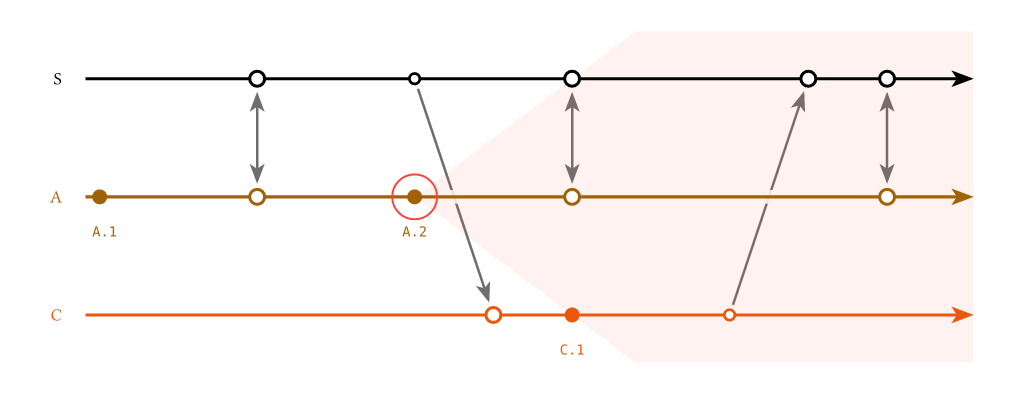
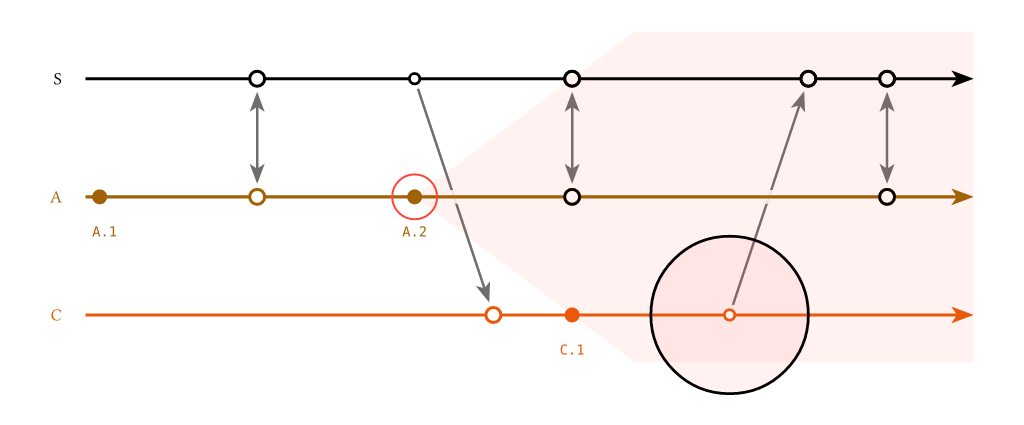
Document what a drawing can ask a diagram about itself
`color-of` hands back the colour a replica's timeline is drawn in, and `mark-args` everything it
takes to draw one of its marks -- coordinate, radius, fill and stroke -- ready to spread into
`circle` and override a piece of.  Between them they answer the thing a drawing kept having to guess:
how to restate a mark without restating the library's choices about how a mark looks.

The diagram draws its own marks from the same value `mark-args` returns, so a drawing that spreads it
follows along if any of those choices change.  That is worth saying on the page, because it is the
reason to prefer it over reaching for `dot` and a stroke width.

Also records that the nudge on a lane's opening label is the orientation's own now: a horizontal lane
takes it, because its replica name sits immediately beside that first label, and a vertical lane does
not, because its name sits before the lane in time while its labels sit beside it.

Changed region(s): [[0.0312, 0.1523, 0.9688, 0.9442], [0.0938, 0.5482, 0.125, 0.6091], [0.6562, 0.8832, 0.6875, 0.9137]]

diff --git a/changelog.md b/changelog.md
@@ -17,7 +17,7 @@ The vertical release: a diagram is no longer bound to run left to right.
 - `orientation` on `lamport-diagram`, which says which way logical time runs: `rightwards`, `leftwards`, `downwards` or `upwards`, with `horizontal` and `vertical` as shorter names for the first and third.  The horizontal pair lays the timelines out as rows and stacks the replicas downwards; the vertical pair lays them out as columns and stacks the replicas rightwards.  These are plain strings, so `orientation: "vertical"` works without importing anything.
 - `left` and `right`, re-exported alongside `above` and `below`, so one import line covers every side a diagram may ask for.  They are the built-in alignments of those names, so either spelling works.  A vertical diagram puts a label on the `right` by default; a horizontal one keeps 0.1.0's `above`.
 - `gallery/vertical.typ`, the gorgeous example drawn downwards.
-- `overlays` on `lamport-diagram`, for drawing your own CeTZ into a diagram at a layer of your choosing, addressing the diagram's own points by name.  A diagram is drawn in passes, `layers` names them, and a drawing given for one is appended to that pass — which is what puts a band above the translucent bands that fade a crossing arrow, and so out of their stripe.  It comes with `event(id: ..)` for naming an event, and a re-export of CeTZ's `draw` module so a caller needs no second dependency to reach `rect` and `circle`.
+- `overlays` on `lamport-diagram`, for drawing your own CeTZ into a diagram at a layer of your choosing, addressing the diagram's own points by name.  A diagram is drawn in passes, `layers` names them, and a drawing given for one is appended to that pass — which is what puts a band above the translucent bands that fade a crossing arrow, and so out of their stripe.  It comes with `event(id: ..)` for naming an event, `color-of(replica)` so a drawing can match a lane rather than restate its colour, `mark-args(replica, id-or-index)` for restating a mark with the radius, fill and stroke the diagram gave it, and a re-export of CeTZ's `draw` module so a caller needs no second dependency to reach `rect` and `circle`.
 - `gallery/overlays.typ`, the future cone of one event washed in behind the lanes, and a ring round the event itself.
 
 ### Changed
@@ -25,6 +25,7 @@ The vertical release: a diagram is no longer bound to run left to right.
 - Which sides a label may sit on now follows from the orientation: `above`/`below` for the horizontal pair, `left`/`right` for the vertical one.  A side the orientation has no room for is *not* an error — it is dropped back to that orientation's default and otherwise ignored, so flipping a finished diagram from horizontal to vertical stays one edit rather than a compile error on every lane that named a side.  It passes in silence for want of anywhere to complain: Typst gives user code no way to raise a compiler warning, and printing one into the document would put it in front of the reader rather than the author.
 - A ratio `displacement` is now taken against the label's extent *along its timeline* — its width when the timelines are rows, its height when they are columns.  On a horizontal diagram this is what it always was.
 - The drawing works in two abstract axes, one along the timelines and one across them, which a single mapping turns into page coordinates per orientation.  Horizontal output is unchanged by this.
+- A lane's opening label is no longer nudged off its dot on a vertical diagram.  The nudge exists so that first label does not read as belonging to the replica name beside it, which is a horizontal lane's problem: a vertical lane keeps its name before the lane in time and its labels beside it, and a fifth of a line's height would have been too small to see in any case.  It is the orientation's default now, `20%` or `0%`, and `replica(first-displacement: ..)` overrides it as before.
 - `col-gap` and `row-gap` default to `none`, which takes the spacing that suits the orientation rather than one pair of numbers for all four.  The old defaults were the horizontal ones, and they were wrong turned on their side: what a gap makes room for is text, text runs across the page however the diagram runs, so the wider default belongs to whichever axis is horizontal.  Give either a number and it is used as before.
 - The lanes are drawn in three passes — every timeline, then every mark, then every label — rather than each lane completely before the next.  This is what makes `timelines`, `marks` and `labels` real layers, and it fixes a case where a lower lane's timeline painted over an upper lane's label.
 

diff --git a/overlays.md b/overlays.md
@@ -161,8 +161,10 @@ A time and a lane together make a coordinate, and `point` is the one entry that 
 | Entry | Gives | |
 | --- | --- | --- |
 | `mark(replica, id-or-index)` | a coordinate | Where that point's mark is drawn, including the sub-column `displacement` that leans its arrow. |
+| `mark-args(replica, id-or-index)` | arguments | Everything the diagram used to draw that mark — its coordinate, radius, fill and stroke — ready to spread into `circle`.  `none` for a `gap` or an `idle`, which draw no mark. |
 | `column(replica, id-or-index)` | a column | Which column the solver put that point in.  Carries no lane and no displacement. |
 | `point(time, lane)` | a coordinate | The page position of a time on a lane. |
+| `color-of(replica)` | a colour | The colour that replica's timeline and marks are drawn in, so a drawing can match a lane rather than restate its colour.  A lane between two replicas has none, so this takes a replica and not a lane. |
 | `span` | two times | The time each lane's line starts at, and the time it ends at.  The first is slightly negative, because a lane leads in a little before column `0`; the second is past `ncols - 1`, because the line runs on beyond the last mark to carry its arrowhead.  Neither is a column, which is what the distinction above is for.  Every lane is drawn over the same stretch, so there is one pair for the whole diagram and no replica to ask about. |
 | `replicas` | strings | The replica ids, in order.  The id at index `n` is the replica on lane `n`. |
 | `ncols` | a count | How many columns the diagram was solved into, so the last of them is `ncols - 1`. |
@@ -187,6 +189,23 @@ overlays: (
 ```
 
 `mark("C", "c-reads")` cannot start that rectangle: it sits on C's lane, not on the first one.  So the two compose — `column` gets the moment, `point` puts it on whichever lane you meant.
+
+`mark-args` is for restating a mark rather than placing something near it.  Spread it and override what you want changed; a later argument wins, so the rest stays whatever the diagram chose:
+
+```typ
+overlays: (
+  marks: d => {
+    import draw: *
+    let (mark-args, ..) = d
+    // Tint three marks, keeping the radius and the ring the diagram gave them.
+    for point in (("S", 3), ("S", 4), ("A", "a-catches-up")) {
+      circle(..mark-args(..point), fill: red.transparentize(55%))
+    }
+  },
+)
+```
+
+The diagram draws its own marks from exactly this, which is the point of it: a hollow ring for a point where the replica touches the network, a solid dot for a purely local step, a send drawn smaller than the receive it feeds.  None of that has to be restated, and a drawing that spreads `mark-args` follows the library if any of it ever changes.  `color-of` is the smaller tool for when you want a lane's colour and nothing else.
 
 `column` is also what to reach for when you want to *reason* rather than draw.  `column("A", "x") == column("B", "y")` is "the solver found nothing ordering these two", which is a real question to ask of a Lamport diagram.
 

diff --git a/guide.md b/guide.md
@@ -21,7 +21,7 @@ Two things follow.  A diagram stays correct while you insert events — nothing 
 
 A receive is drawn by default a centimetre further along in time than its send, so every message arrow follows the direction of time without the diagram needing padding put in by hand.  `recv(..., displacement: none)` puts it in the send's own column instead, for an arrow that runs straight across the lanes.
 
-Labels are centred on their own mark and sit on the orientation's default side — `above` a horizontal timeline, `right` of a vertical one — except a lane's opening label, nudged forward in time so it does not read as belonging to the replica name just before it.  `event` overrides both for one event, `replica` for a whole lane.
+Labels are centred on their own mark and sit on the orientation's default side — `above` a horizontal timeline, `right` of a vertical one — except a lane's opening label on a horizontal diagram, nudged forward in time so it does not read as belonging to the replica name at its left.  A vertical lane takes no such nudge: its name sits before the lane *in time* while its labels sit beside it, so the two were never at risk of reading as one.  `event` overrides both for one event, `replica` for a whole lane.
 
 Arrows are drawn first and everything else on top, so an arrow that crosses a lane it has no endpoint on passes *under* that lane rather than striking through it.  A lane erases across the whole strip it occupies, marks included: each mark clears the same annulus that an arrow landing on it would stop short of, so a passing arrow breaks around a dot instead of running into its edge.  Labels knock out the arrow behind them for the same reason.
 

diff --git a/reference.md b/reference.md
@@ -82,7 +82,7 @@ A replica lane, and the defaults the local events on it fall back on.  `name` is
 - `position` — `above` or `below`, the side of the timeline this lane's event labels sit on — `left` or `right` on a vertical diagram; see [`orientation`](#orientation).
 - `size` — the text size of this lane's event labels.
 - `displacement` — how far this lane's event labels slide off their own dot.
-- `first-displacement` — the same, for the lane's opening event, the one that would otherwise crowd the replica name.
+- `first-displacement` — the same, for the lane's opening event, the one that would otherwise crowd the replica name.  Left alone it is the orientation's own: `20%` on a horizontal diagram, where the name sits immediately left of that first label, and `0%` on a vertical one, where the name is before the lane in time and the labels are beside it, so there is nothing to move out of.
 
 `label`, `color` and `position` may also be given positionally, in any order: they are told apart by type, so `replica("A", below, red)` and `replica("B", red, below)` are the same lane.  The rest must be named.
 
